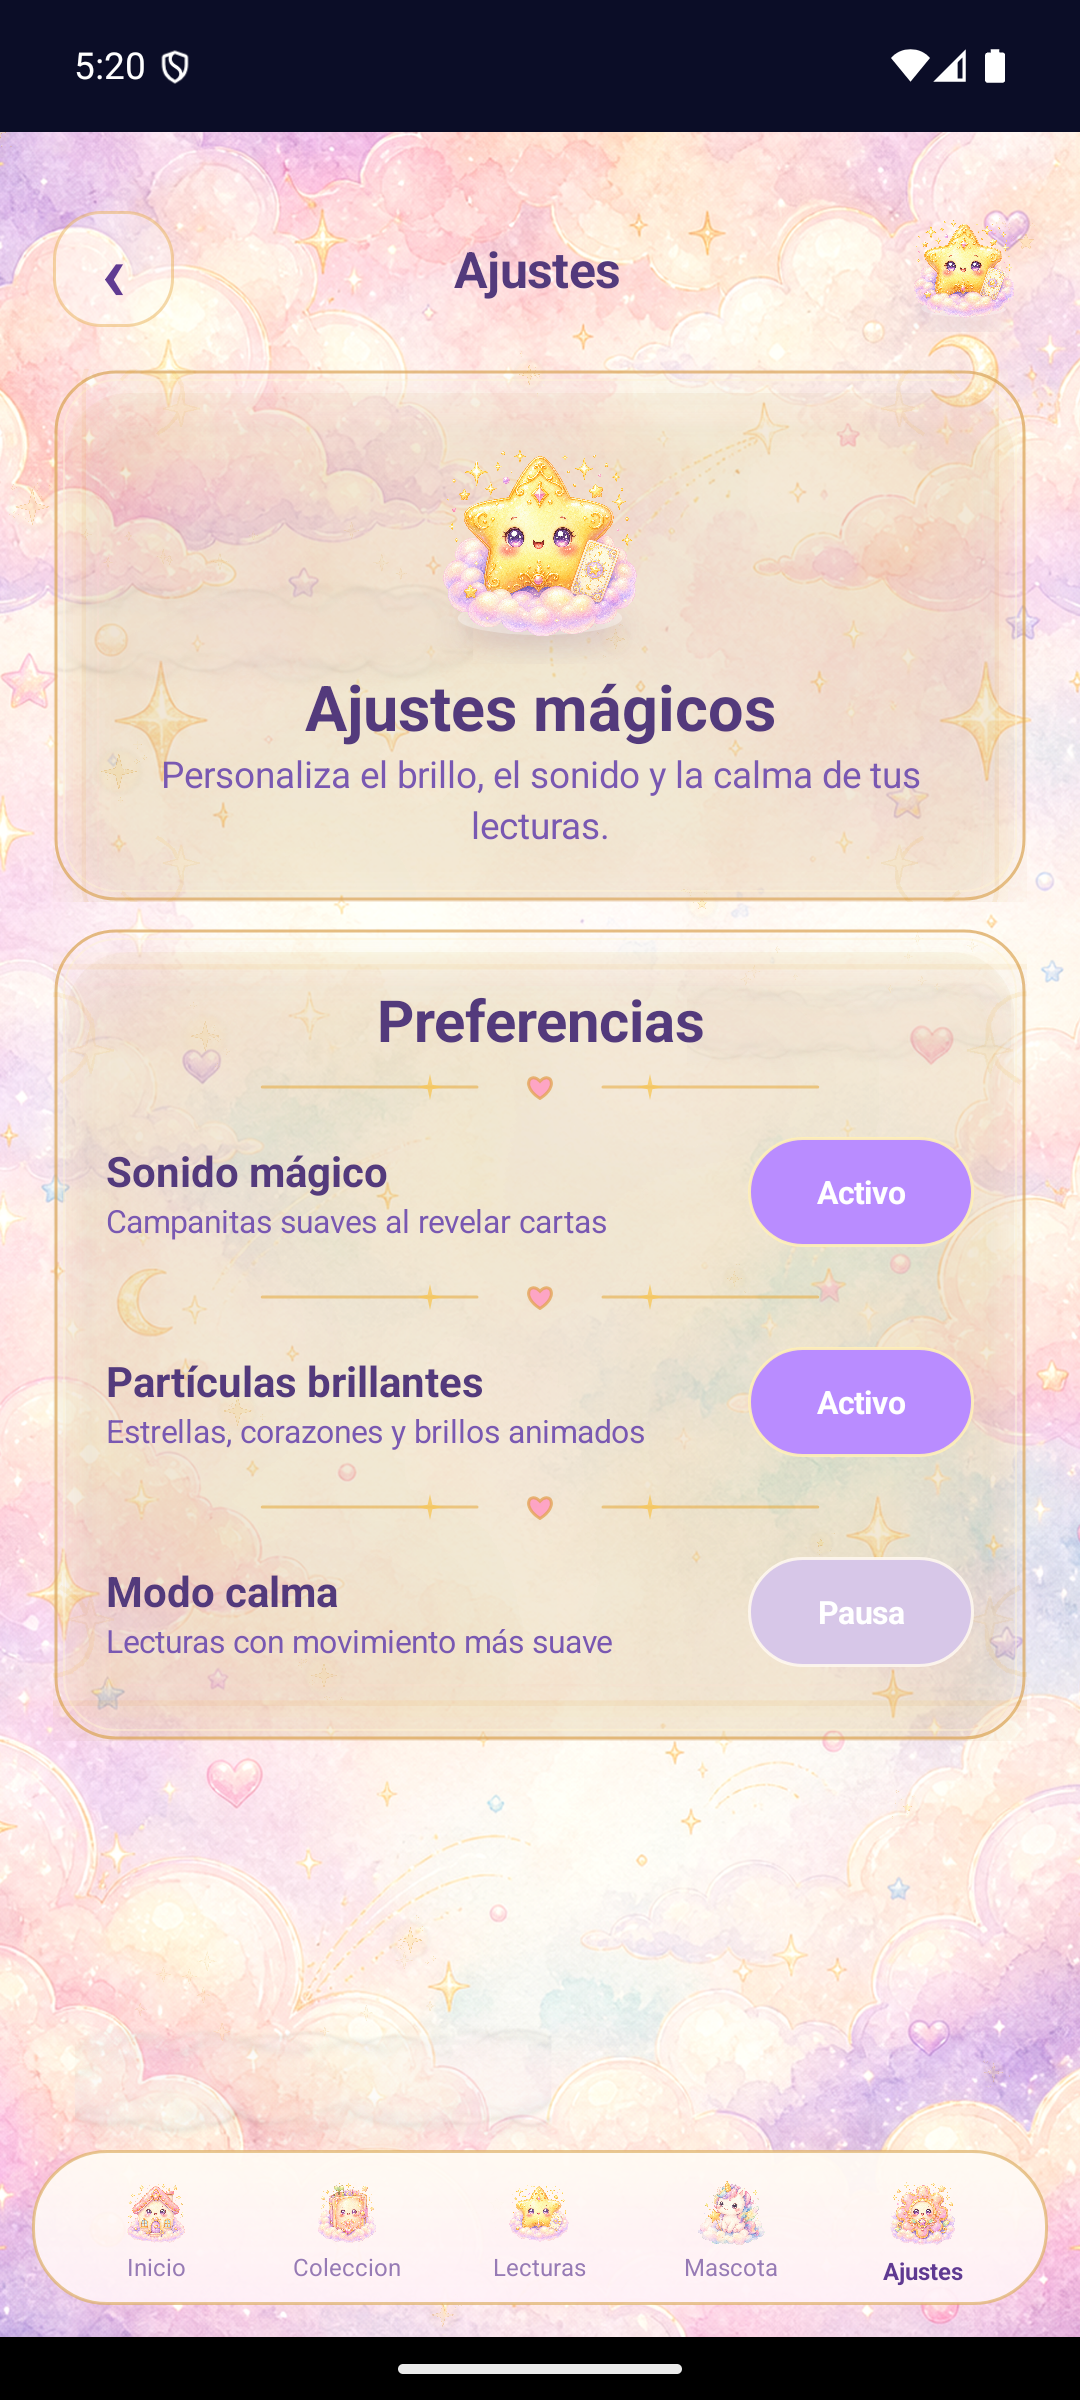
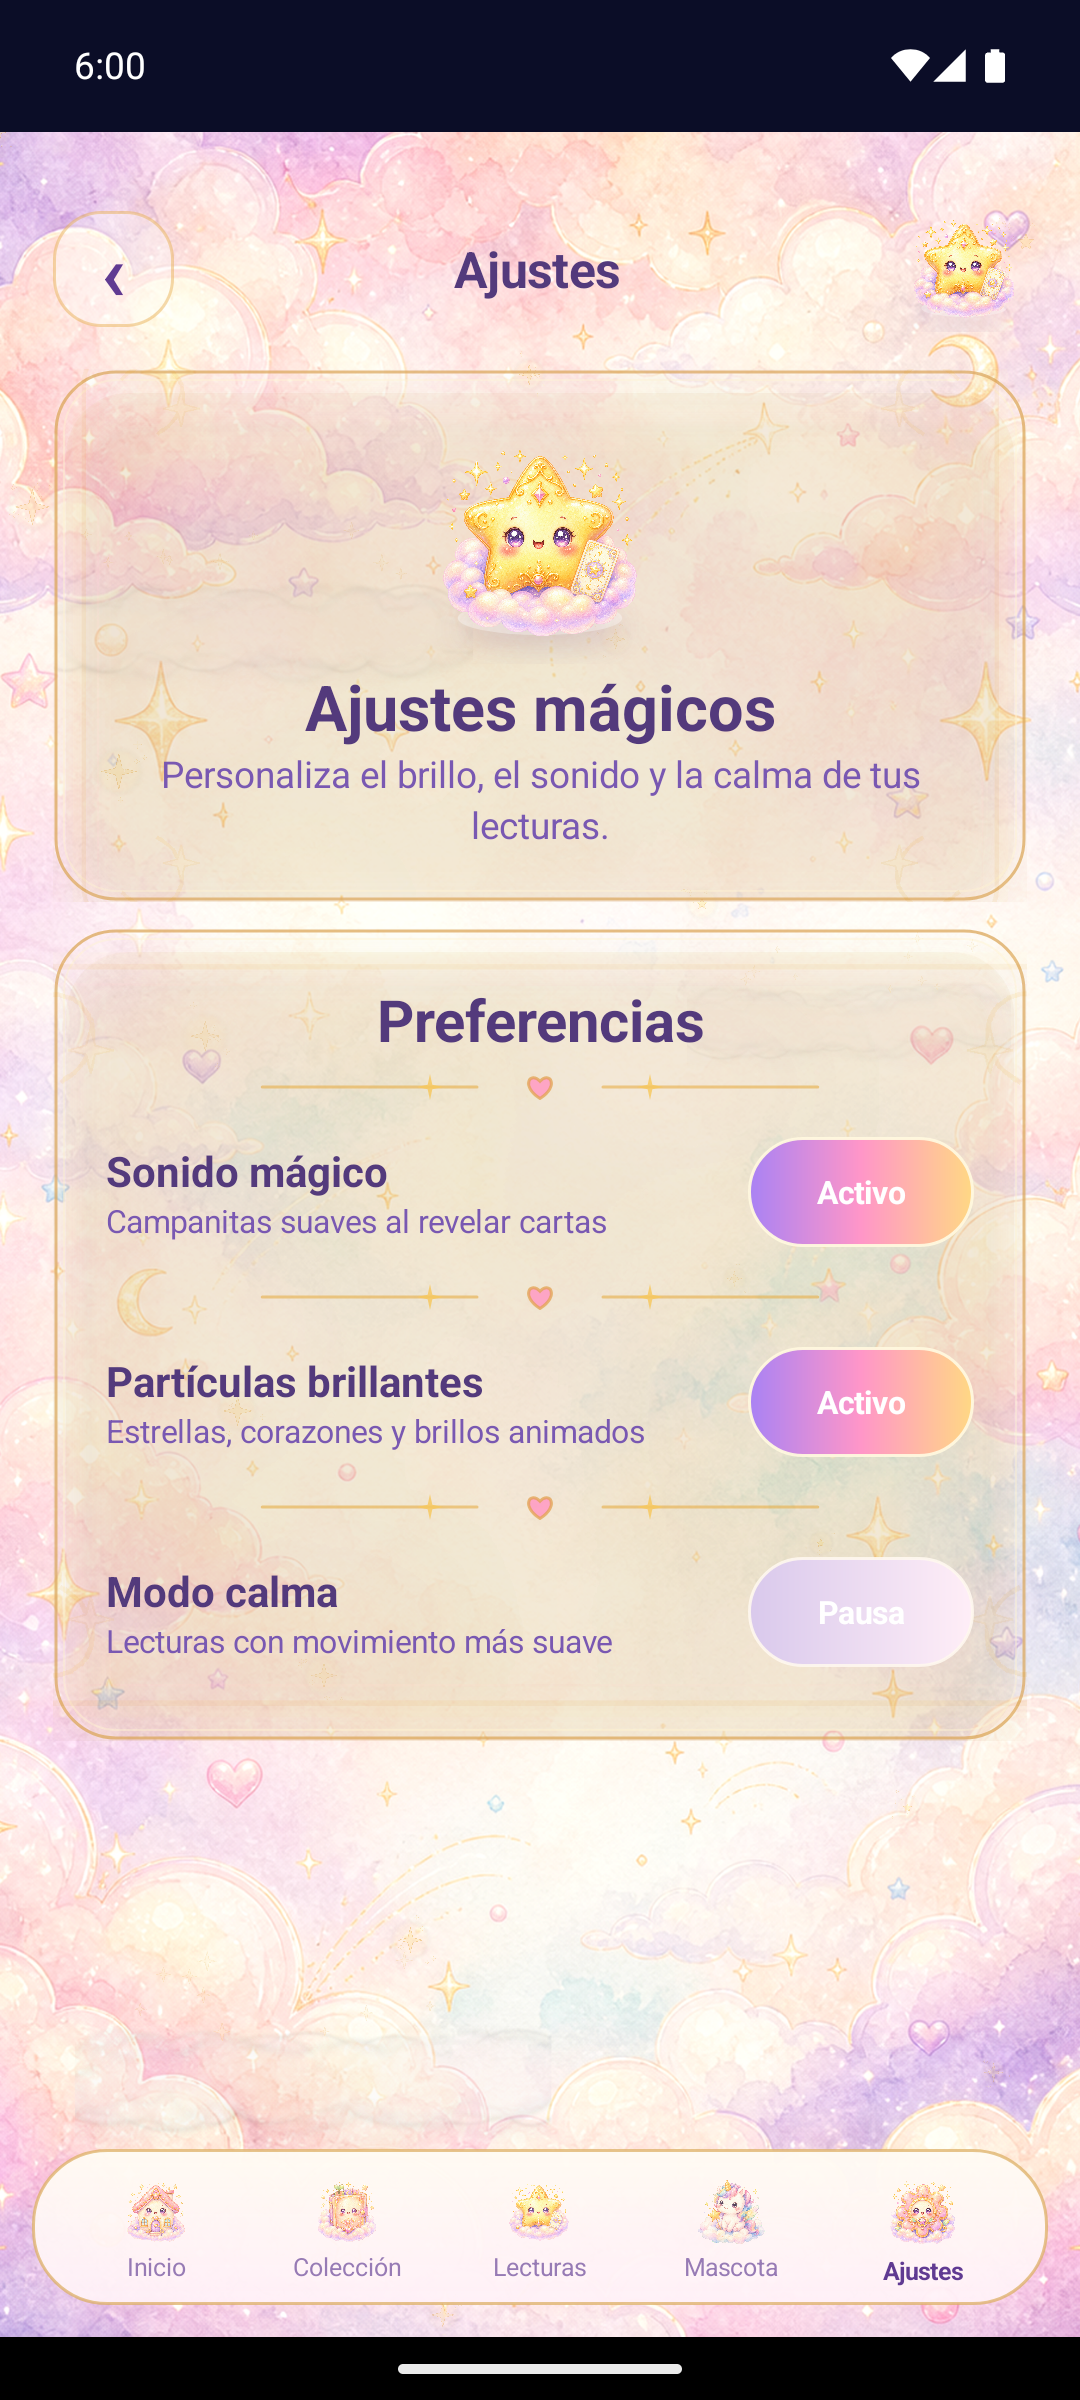
.
.

diff --git a/app/src/main/java/com/example/evaluacion4charlottegabriel/ui/DreamBottomNav.java b/app/src/main/java/com/example/evaluacion4charlottegabriel/ui/DreamBottomNav.java
@@ -36,7 +36,7 @@ public class DreamBottomNav extends GlassPanel {
         addItem(context, "Inicio", R.drawable.icon_inicio, active == HOME, v -> {
             if (active != HOME) TarotNavigator.openHome(context);
         }, compact);
-        addItem(context, "Coleccion", R.drawable.icon_coleccion, active == COLLECTION, v -> {
+        addItem(context, "Colecci\u00f3n", R.drawable.icon_coleccion, active == COLLECTION, v -> {
             if (active != COLLECTION) TarotNavigator.openCollection(context);
         }, compact);
         addItem(context, "Lecturas", R.drawable.icon_carta_dia, active == READINGS, v -> {
@@ -61,11 +61,11 @@ public class DreamBottomNav extends GlassPanel {
         ImageView icon = new ImageView(context);
         icon.setImageResource(iconRes);
         icon.setScaleType(ImageView.ScaleType.FIT_CENTER);
-        icon.setAlpha(active ? 1f : .88f);
+        icon.setAlpha(active ? 1f : .84f);
         int iconSize = DreamUi.dp(context, compact ? (active ? 29 : 26) : (active ? 31 : 28));
         item.addView(icon, new LinearLayout.LayoutParams(iconSize, iconSize));
 
-        TextView text = DreamUi.text(context, label, compact ? 8.6f : 9.2f, active ? DreamColors.LILAC_DARK : DreamColors.MUTED, active ? Typeface.BOLD : Typeface.NORMAL);
+        TextView text = DreamUi.text(context, label, compact ? 8.8f : 9.4f, active ? DreamColors.LILAC_DARK : DreamColors.MUTED, active ? Typeface.BOLD : Typeface.NORMAL);
         text.setGravity(Gravity.CENTER);
         text.setShadowLayer(DreamUi.dp(context, 3), 0, DreamUi.dp(context, 1), 0x66ffffff);
         item.addView(text);
@@ -76,9 +76,9 @@ public class DreamBottomNav extends GlassPanel {
 
     private GradientDrawable makeNavBg(Context context, boolean compact) {
         GradientDrawable bg = new GradientDrawable(GradientDrawable.Orientation.TOP_BOTTOM,
-                compact ? new int[]{0xeffffbf4, 0xeafff1f8} : new int[]{0xf0fffbf3, 0xecfff1f8});
+                compact ? new int[]{0xf4fffbf4, 0xeefff1f8} : new int[]{0xf6fffbf3, 0xf0fff1f8});
         bg.setCornerRadius(DreamUi.dp(context, 28));
-        bg.setStroke(DreamUi.dp(context, 1), compact ? 0xa0ddb066 : 0xaeddb066);
+        bg.setStroke(DreamUi.dp(context, 1), compact ? 0xb0ddb066 : 0xbbddb066);
         return bg;
     }
 }

diff --git a/app/src/main/java/com/example/evaluacion4charlottegabriel/MainActivity.java b/app/src/main/java/com/example/evaluacion4charlottegabriel/MainActivity.java
@@ -32,7 +32,7 @@ public class MainActivity extends AppCompatActivity {
     private void buildHome() {
         TarotScaffold scaffold = new TarotScaffold(this);
         applyHomeSystemBars();
-        scaffold.setQuietHomeBackground(true);
+        scaffold.setQuietHomeBackground(false);
         scaffold.setBottomNav(DreamBottomNav.HOME, true);
         LinearLayout root = scaffold.content();
         root.setPadding(DreamUi.dp(this, 6), DreamUi.dp(this, 32),
@@ -111,14 +111,14 @@ public class MainActivity extends AppCompatActivity {
         panel.setOnClickListener(v -> TarotNavigator.openDailyCard(this));
         GradientDrawable bg = new GradientDrawable(GradientDrawable.Orientation.LEFT_RIGHT,
                 new int[]{0xfffff7e8, 0xfffffbf8, 0xfffff2e2});
-        bg.setCornerRadius(DreamUi.dp(this, 14));
-        bg.setStroke(DreamUi.dp(this, 1), 0xaee1a94f);
+        bg.setCornerRadius(DreamUi.dp(this, 18));
+        bg.setStroke(DreamUi.dp(this, 1), 0x96d9a856);
         panel.setBackground(bg);
 
         ImageView frame = new ImageView(this);
         frame.setImageResource(R.drawable.panel_frame_01);
         frame.setScaleType(ImageView.ScaleType.FIT_XY);
-        frame.setAlpha(.38f);
+        frame.setAlpha(.22f);
         panel.addView(frame, new FrameLayout.LayoutParams(
                 ViewGroup.LayoutParams.MATCH_PARENT,
                 ViewGroup.LayoutParams.MATCH_PARENT));
@@ -170,8 +170,8 @@ public class MainActivity extends AppCompatActivity {
         panel.setElevation(DreamUi.dp(this, 2));
         GradientDrawable bg = new GradientDrawable(GradientDrawable.Orientation.TOP_BOTTOM,
                 new int[]{DreamUi.blend(tint, 0xffffffff, .34f), 0xfffffbf7});
-        bg.setCornerRadius(DreamUi.dp(this, 12));
-        bg.setStroke(DreamUi.dp(this, 1), 0x8fd4a65a);
+        bg.setCornerRadius(DreamUi.dp(this, 18));
+        bg.setStroke(DreamUi.dp(this, 1), 0x95d4a65a);
         panel.setBackground(bg);
 
         LinearLayout copy = new LinearLayout(this);

diff --git a/app/src/main/java/com/example/evaluacion4charlottegabriel/ui/DreamButton.java b/app/src/main/java/com/example/evaluacion4charlottegabriel/ui/DreamButton.java
@@ -16,21 +16,22 @@ public class DreamButton extends AppCompatTextView {
         setTextSize(16);
         setTypeface(Typeface.create("sans-serif-medium", Typeface.BOLD));
         setGravity(Gravity.CENTER);
-        setMinHeight(DreamUi.dp(context, 54));
-        setPadding(DreamUi.dp(context, 22), DreamUi.dp(context, 13), DreamUi.dp(context, 22), DreamUi.dp(context, 13));
+        setMinHeight(DreamUi.dp(context, 56));
+        setPadding(DreamUi.dp(context, 24), DreamUi.dp(context, 14), DreamUi.dp(context, 24), DreamUi.dp(context, 14));
         setClickable(true);
         setFocusable(true);
         DreamUi.softLayer(this);
-        setShadowLayer(DreamUi.dp(context, 7), 0, DreamUi.dp(context, 1), 0x55ffffff);
+        setElevation(DreamUi.dp(context, 3));
+        setShadowLayer(DreamUi.dp(context, 4), 0, DreamUi.dp(context, 1), 0x66ffffff);
         setBackground(makeBg());
     }
 
     private GradientDrawable makeBg() {
         GradientDrawable drawable = new GradientDrawable(
                 GradientDrawable.Orientation.LEFT_RIGHT,
-                new int[]{0xffb98cff, 0xffff98c9, 0xffffcf70});
-        drawable.setCornerRadius(DreamUi.dp(getContext(), 24));
-        drawable.setStroke(DreamUi.dp(getContext(), 2), 0xdffff8df);
+                new int[]{0xffa982f4, 0xffff96c8, 0xffffd884});
+        drawable.setCornerRadius(DreamUi.dp(getContext(), 28));
+        drawable.setStroke(DreamUi.dp(getContext(), 1.4f), 0xf4fff8df);
         return drawable;
     }
 

diff --git a/app/src/main/java/com/example/evaluacion4charlottegabriel/CardDetailActivity.java b/app/src/main/java/com/example/evaluacion4charlottegabriel/CardDetailActivity.java
@@ -105,6 +105,8 @@ public class CardDetailActivity extends AppCompatActivity {
     private void addActions() {
         GlassPanel actions = new GlassPanel(this);
         actions.setGravity(Gravity.CENTER_HORIZONTAL);
+        actions.setPadding(DreamUi.dp(this, 16), DreamUi.dp(this, 16),
+                DreamUi.dp(this, 16), DreamUi.dp(this, 18));
         LinearLayout row = new LinearLayout(this);
         row.setGravity(Gravity.CENTER);
         row.setOrientation(LinearLayout.VERTICAL);
@@ -123,13 +125,13 @@ public class CardDetailActivity extends AppCompatActivity {
             Toast.makeText(this, "Guardada en tu album", Toast.LENGTH_SHORT).show();
         });
         LinearLayout.LayoutParams params = new LinearLayout.LayoutParams(ViewGroup.LayoutParams.MATCH_PARENT, ViewGroup.LayoutParams.WRAP_CONTENT);
-        params.topMargin = DreamUi.dp(this, 10);
+        params.topMargin = DreamUi.dp(this, 12);
         row.addView(collection, params);
 
         DreamButton listen = new DreamButton(this, "Escuchar");
         listen.setOnClickListener(v -> Toast.makeText(this, "Susurro magico preparado", Toast.LENGTH_SHORT).show());
         LinearLayout.LayoutParams listenParams = new LinearLayout.LayoutParams(ViewGroup.LayoutParams.MATCH_PARENT, ViewGroup.LayoutParams.WRAP_CONTENT);
-        listenParams.topMargin = DreamUi.dp(this, 10);
+        listenParams.topMargin = DreamUi.dp(this, 12);
         row.addView(listen, listenParams);
 
         actions.addView(row);

diff --git a/app/src/main/java/com/example/evaluacion4charlottegabriel/SettingsActivity.java b/app/src/main/java/com/example/evaluacion4charlottegabriel/SettingsActivity.java
@@ -4,6 +4,7 @@ import androidx.appcompat.app.AppCompatActivity;
 
 import android.content.SharedPreferences;
 import android.graphics.Typeface;
+import android.graphics.drawable.GradientDrawable;
 import android.os.Bundle;
 import android.view.Gravity;
 import android.view.ViewGroup;
@@ -85,9 +86,14 @@ public class SettingsActivity extends AppCompatActivity {
 
     private void updateToggle(TextView toggle, boolean enabled) {
         toggle.setText(enabled ? "Activo" : "Pausa");
-        int fill = enabled ? 0xffb98cff : 0xffd7c7e8;
-        int stroke = enabled ? 0xe7fff0b8 : 0xdffff8ef;
-        toggle.setBackground(DreamUi.stroked(fill, stroke, DreamUi.dp(this, 22), DreamUi.dp(this, 1.2f)));
+        GradientDrawable bg = new GradientDrawable(GradientDrawable.Orientation.LEFT_RIGHT,
+                enabled
+                        ? new int[]{0xffa982f4, 0xffff96c8, 0xffffd884}
+                        : new int[]{0xffd9c9ec, 0xffffeef7});
+        bg.setCornerRadius(DreamUi.dp(this, 24));
+        bg.setStroke(DreamUi.dp(this, 1.2f), enabled ? 0xf2fff8df : 0xdffff8ef);
+        toggle.setBackground(bg);
+        toggle.setElevation(DreamUi.dp(this, 2));
     }
 
     private void add(LinearLayout parent, android.view.View child, int top, int bottom) {

diff --git a/app/src/main/java/com/example/evaluacion4charlottegabriel/MascotaActivity.java b/app/src/main/java/com/example/evaluacion4charlottegabriel/MascotaActivity.java
@@ -147,9 +147,14 @@ public class MascotaActivity extends AppCompatActivity {
 
     private void updateToggle(TextView toggle, boolean enabled) {
         toggle.setText(enabled ? "Activo" : "Pausa");
-        int fill = enabled ? 0xffb98cff : 0xffd7c7e8;
-        int stroke = enabled ? 0xe7fff0b8 : 0xdffff8ef;
-        toggle.setBackground(DreamUi.stroked(fill, stroke, DreamUi.dp(this, 22), DreamUi.dp(this, 1.2f)));
+        GradientDrawable bg = new GradientDrawable(GradientDrawable.Orientation.LEFT_RIGHT,
+                enabled
+                        ? new int[]{0xffa982f4, 0xffff96c8, 0xffffd884}
+                        : new int[]{0xffd9c9ec, 0xffffeef7});
+        bg.setCornerRadius(DreamUi.dp(this, 24));
+        bg.setStroke(DreamUi.dp(this, 1.2f), enabled ? 0xf2fff8df : 0xdffff8ef);
+        toggle.setBackground(bg);
+        toggle.setElevation(DreamUi.dp(this, 2));
     }
 
     private void add(LinearLayout parent, View child, int top, int bottom) {

diff --git a/README.md b/README.md
@@ -1,46 +1,64 @@
 # Tarot Kawaii Dreams
 
-Tarot Kawaii Dreams es una app Android nativa de tarot ilustrado con estetica kawaii, acuarela pastel y contenedores tipo album magico. La experiencia combina lectura diaria, consultas rapidas, coleccion de familias y una mascota guia.
+Tarot Kawaii Dreams es una app Android nativa de tarot ilustrado con estetica kawaii, acuarela pastel y una interfaz tipo album magico. La experiencia esta centrada en lecturas suaves, cartas coleccionables, familias de arcanos y una mascota guia.
 
-La app esta construida en Java con vistas personalizadas. Usa las cartas reales del proyecto desde `assets/tarot_cards` y mantiene la navegacion principal con bottom nav.
+La app esta construida en Java con vistas personalizadas. Usa los assets reales del proyecto desde `assets/tarot_cards` y mantiene una navegacion inferior consistente entre las pantallas principales.
 
-## Capturas Actuales
+## Capturas
 
 | Inicio | Coleccion |
 | --- | --- |
 | ![Inicio](docs/screenshots/home.png) | ![Coleccion](docs/screenshots/coleccion.png) |
 
-| Gotitas | Mascota |
+| Gotitas | Carta del Dia |
 | --- | --- |
-| ![Gotitas](docs/screenshots/coleccion-gotitas.png) | ![Mascota](docs/screenshots/mascota.png) |
+| ![Gotitas](docs/screenshots/coleccion-gotitas.png) | ![Carta del Dia](docs/screenshots/carta-dia.png) |
 
-| Ajustes | Carta del Dia |
+| Si o No | Mascota |
 | --- | --- |
-| ![Ajustes](docs/screenshots/ajustes.png) | ![Carta del Dia](docs/screenshots/carta-dia.png) |
+| ![Si o No](docs/screenshots/si-o-no.png) | ![Mascota](docs/screenshots/mascota.png) |
+
+| Ajustes |
+| --- |
+| ![Ajustes](docs/screenshots/ajustes.png) |
 
 ## Flujo Principal
 
-- Inicio muestra saludo, unicornio hero, Carta del Dia y accesos a Si o No, Tarot de Parejas, Coleccion y Mascota.
-- Coleccion abre primero un indice de familias: Gotitas, Chispas, Estrellas, Brotes y Unicornios.
-- Al tocar una familia, se abre su album con grid de cartas desbloqueadas y cartas dormidas.
-- Carta del Dia presenta una carta cerrada que se revela al tocar.
-- Si o No abre una lectura rapida desde la card del Home.
-- Mascota y Ajustes usan el mismo sistema visual de paneles pastel.
+- **Inicio:** saludo, unicornio hero, acceso a Carta del Dia y grid 2x2 para lecturas, coleccion y mascota.
+- **Coleccion:** indice de familias con Gotitas, Chispas, Estrellas, Brotes y Unicornios.
+- **Familias:** cada familia abre un album con cartas desbloqueadas y cartas dormidas.
+- **Carta del Dia:** carta cerrada con revelacion al tocar y guardado en el album.
+- **Si o No:** lectura rapida con respuesta y explicacion.
+- **Tarot de Parejas:** dos cartas y una interpretacion conjunta.
+- **Mascota:** panel de estado y preferencias de compania.
+- **Ajustes:** preferencias visuales y de experiencia.
 
 ## Sistema Visual
 
-Los contenedores comparten un lenguaje visual comun:
+El lenguaje visual busca una sensacion premium, suave y coleccionable:
 
-- fondos crema, blanco rosado o pastel suave
-- borde dorado fino
+- fondo acuarela pastel compartido en toda la app
+- contenedores crema o blanco rosado
+- bordes dorados finos
+- sombras ligeras y difusas
 - esquinas redondeadas
-- sombra suave
+- botones con gradiente pastel
 - texto morado elegante
-- subtitulos lila
 - iconos kawaii acuarela
-- bottom nav tipo pildora, legible y con item activo
+- bottom nav tipo pildora con item activo
 
-## Estructura Principal
+## Pantallas Incluidas
+
+- `MainActivity` para Inicio
+- `CollectionActivity` para indice de coleccion y albums por familia
+- `CartaDelDia` para lectura diaria
+- `SiYNo` para consulta rapida
+- `tarotPareja` para lectura de parejas
+- `MascotaActivity` para la guia kawaii
+- `SettingsActivity` para ajustes
+- `CardDetailActivity` para detalle de cartas
+
+## Estructura
 
 ```text
 app/
@@ -58,6 +76,7 @@ app/
     ui/
       DreamBackground.java
       DreamBottomNav.java
+      DreamButton.java
       DreamPanelDrawable.java
       TarotScaffold.java
       CollectionCard.java
@@ -76,7 +95,7 @@ Desde la raiz del proyecto:
 .\gradlew.bat assembleDebug
 ```
 
-La APK debug se genera en:
+APK generada:
 
 ```text
 app/build/outputs/apk/debug/app-debug.apk
@@ -84,9 +103,10 @@ app/build/outputs/apk/debug/app-debug.apk
 
 ## Notas
 
-- No se generan assets por codigo: las ilustraciones vienen de los recursos existentes.
+- Las ilustraciones se toman desde los assets existentes.
 - La pantalla Coleccion siempre inicia en el indice de familias.
-- Las pantallas de familia conservan el fondo acuarela y el bottom nav consistente.
+- El grid de cartas aparece solo despues de tocar una familia.
+- Los botones, toggles, cards y bottom nav comparten el mismo estilo pastel/dorado.
 
 ## Autores
 
